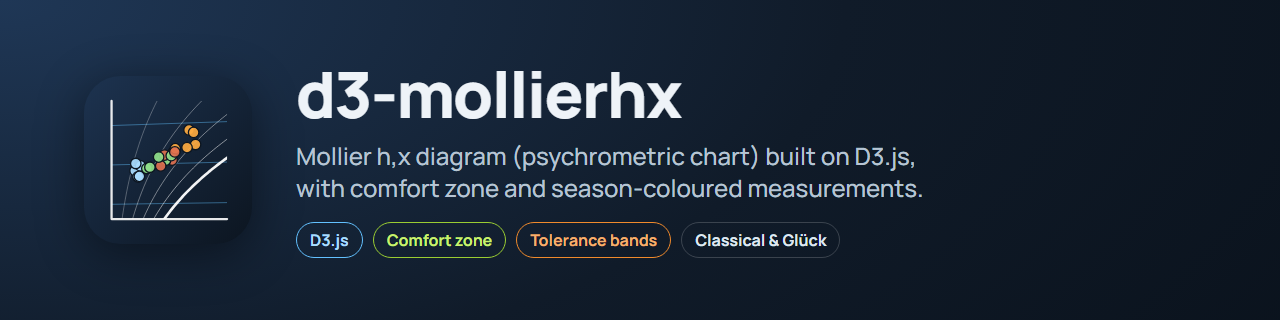
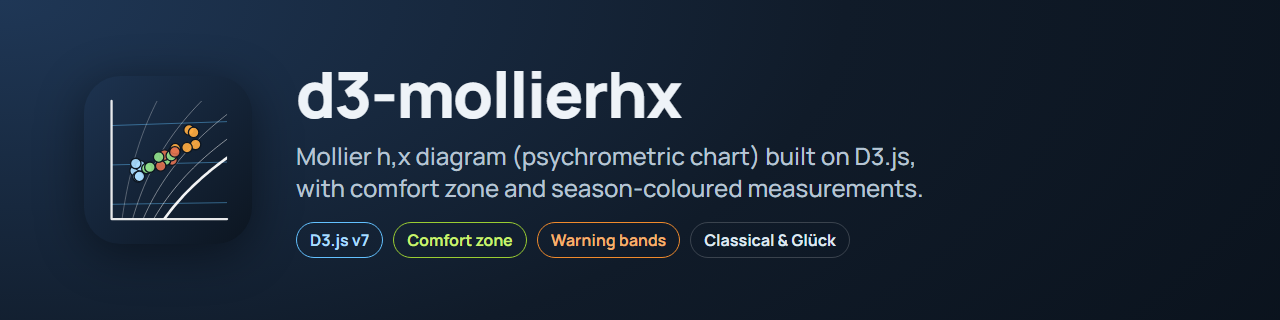
Re-render repository images with the D3 v7 code; README and landing page use the new screenshot

Changed region(s): [[0.2812, 0.6875, 0.6562, 0.8125]]

diff --git a/scripts/banner.html b/scripts/banner.html
@@ -16,5 +16,5 @@ p{margin:0;font-size:24px;line-height:1.35;color:#b7c4d3;font-weight:500;max-wid
 .chip.g{border-color:#9acd32;color:#c9f26f}.chip.o{border-color:#f08a2c;color:#f6b06c}.chip.b{border-color:#63c1ff;color:#a9dcff}
 </style></head><body>
 <img class="logo" src="../docs/logo.svg" alt="">
-<div class="text"><h1>d3-mollierhx</h1><p>Mollier h,x diagram (psychrometric chart) built on D3.js,<br>with comfort zone and season-coloured measurements.</p><div class="chips"><span class="chip b">D3.js</span><span class="chip g">Comfort zone</span><span class="chip o">Tolerance bands</span><span class="chip">Classical &amp; Glück</span></div></div>
+<div class="text"><h1>d3-mollierhx</h1><p>Mollier h,x diagram (psychrometric chart) built on D3.js,<br>with comfort zone and season-coloured measurements.</p><div class="chips"><span class="chip b">D3.js v7</span><span class="chip g">Comfort zone</span><span class="chip o">Warning bands</span><span class="chip">Classical &amp; Glück</span></div></div>
 </body></html>

diff --git a/scripts/social-preview.html b/scripts/social-preview.html
@@ -19,7 +19,7 @@ p{margin:0;font-size:27px;line-height:1.38;color:#b7c4d3;font-weight:500;max-wid
   <img class="logo" src="../docs/logo.svg">
   <h1>d3-mollierhx</h1>
   <p>Mollier h,x diagram (psychrometric chart) built on D3.js, with comfort zone and season-coloured measurements.</p>
-  <div class="chips"><span class="chip b">D3.js</span><span class="chip g">Comfort zone</span><span class="chip o">Tolerance bands</span></div>
+  <div class="chips"><span class="chip b">D3.js v7</span><span class="chip g">Comfort zone</span><span class="chip o">Warning bands</span></div>
 </div>
 <img class="shot" src="../docs/screenshot.png">
 </body></html>

diff --git a/index.html b/index.html
@@ -43,7 +43,7 @@
         <a href="https://github.com/hslu-ige-laes/d3-mollierhx"><b>Source on GitHub</b><small>hslu-ige-laes/d3-mollierhx</small></a>
     </div>
 
-    <a href="example/demo.html"><img src="img/mollierhx.png" alt="Mollier h,x diagram with measured data coloured by season and a comfort zone"></a>
+    <a href="example/demo.html"><img src="docs/screenshot.png" alt="Mollier h,x diagram with measured data coloured by season and a comfort zone"></a>
 
     <footer>
         &copy; Lucerne University of Applied Sciences and Arts (HSLU). Python port:

diff --git a/README.md b/README.md
@@ -23,7 +23,7 @@
 ## Overview
 The Mollier h,x-diagram was proposed by Richard Mollier in 1923 and allows to describe changes of state of humid air. In the present case it is used to show comfort states regarding temperature and humidity.
 
-<img alt="mollier hx diagram" src="img/mollierhx.png" width="100%">
+<img alt="mollier hx diagram" src="docs/screenshot.png" width="100%">
 
 - It is valid for a certain air pressure. The quantities temperature, humidity (absolute and relative), enthalpy and density can be read off directly.
 - The basic scale for the h,x-diagram is a temperature scale, which is applied vertically as y-axis.
